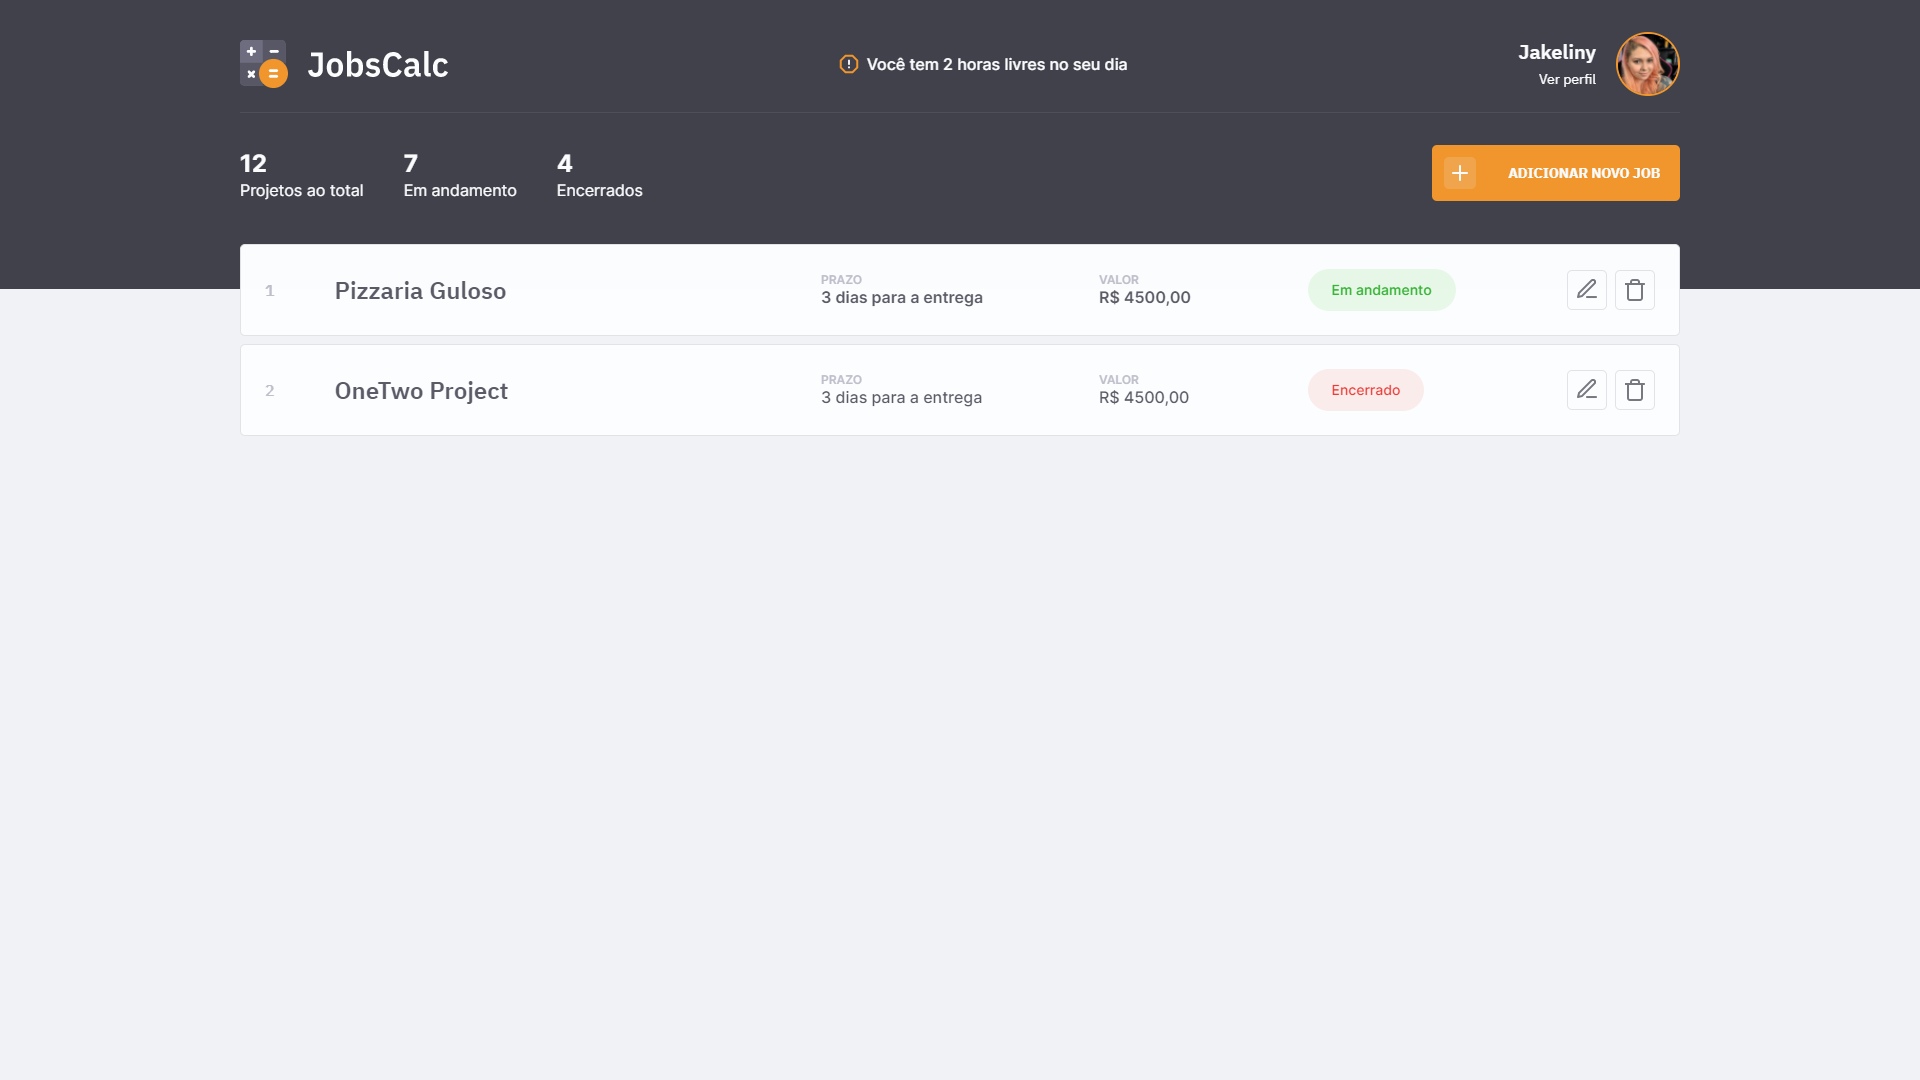
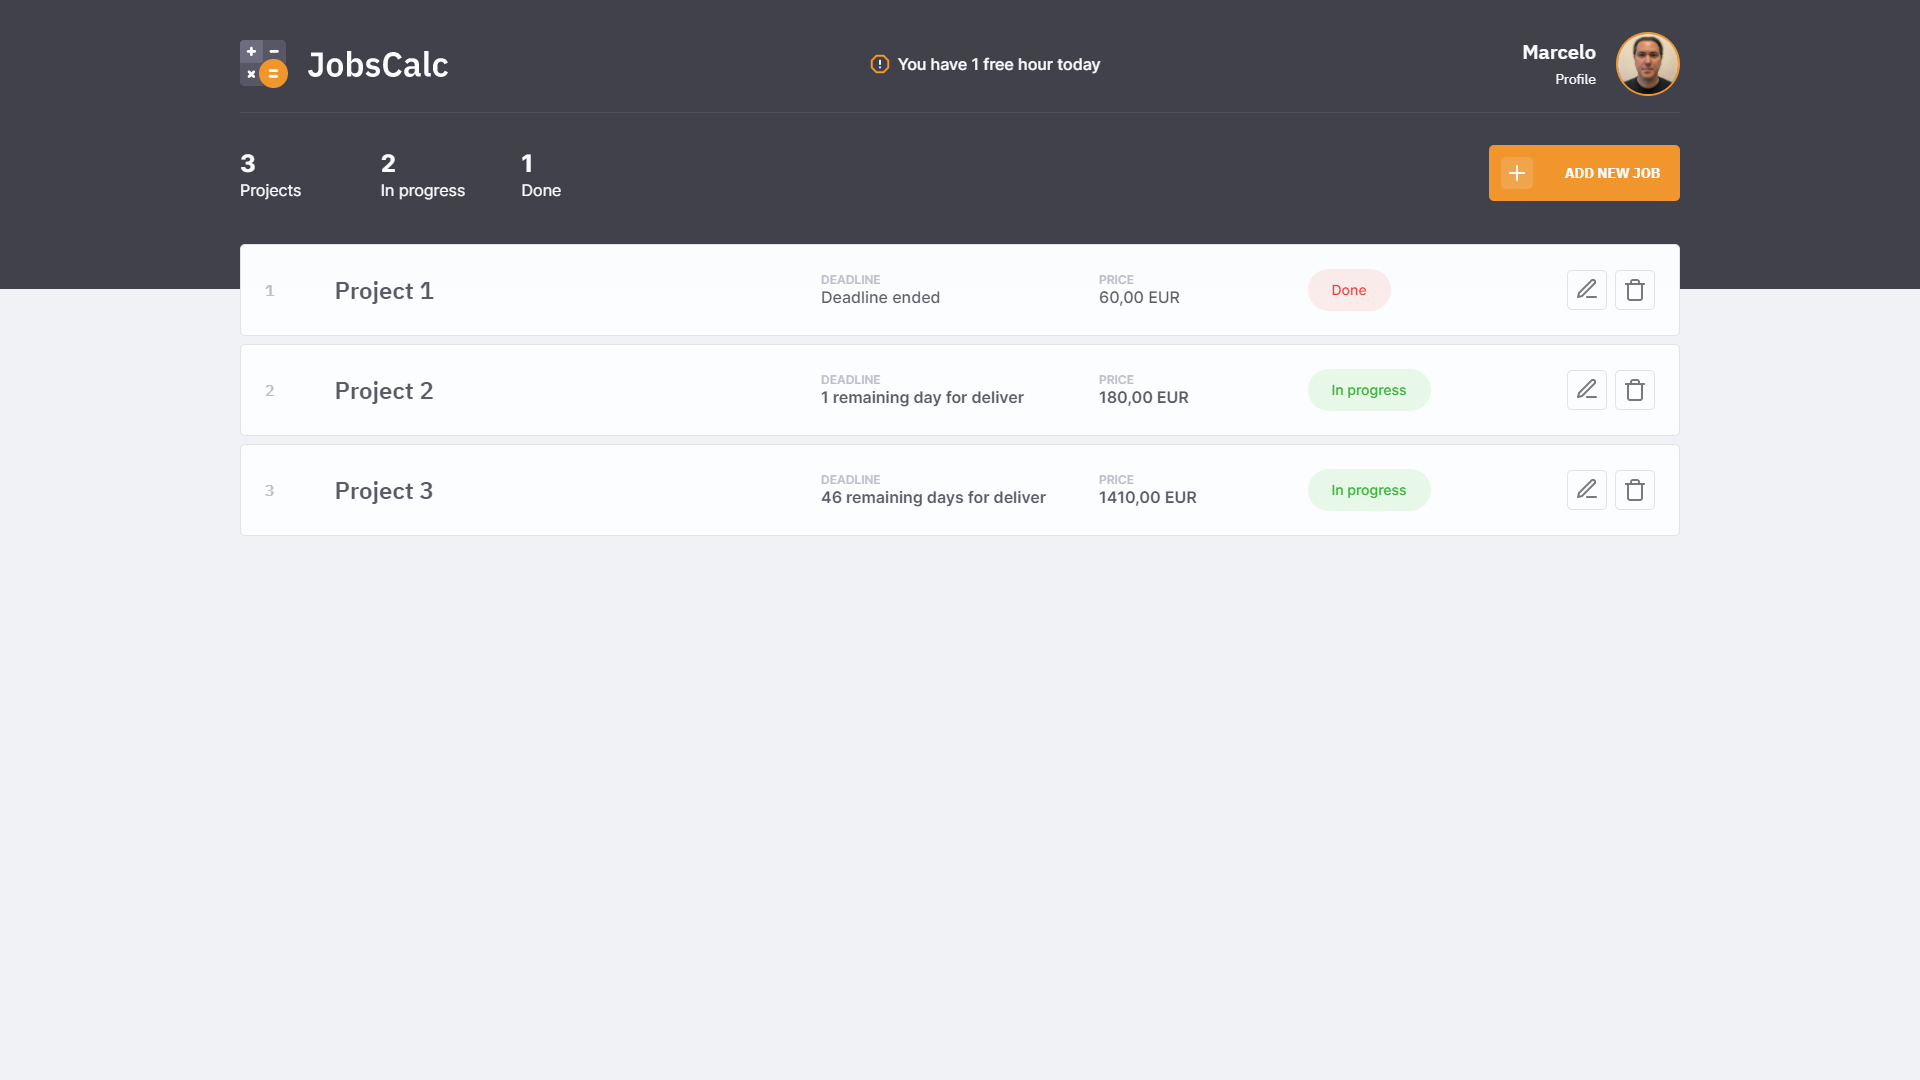
rocketseat

diff --git a/maratona_discover_2021_02/public/styles/pages/index.css b/maratona_discover_2021_02/public/styles/pages/index.css
@@ -89,6 +89,14 @@
   margin-bottom: 2rem;
 }
 
+.info {
+  width: 70%;
+}
+
+.info div {
+  width: 10%;
+}
+
 .info > div {
   font-size: 1rem;
   font-weight: 400;
@@ -228,12 +236,28 @@ main {
 }
 
 @media(max-width:1390px) {
+  .info {
+    width: 65%;
+  }
+
+  .info div {
+    width: 30%;
+  }
+
   .card {
     grid-template-columns: 5% 30% 20% 15% 17.25% 12.25%;
   }
 }
 
 @media(max-width:970px) {
+  .info {
+    width: 65%;
+  }
+
+  .info div {
+    width: 30%;
+  }
+
   .card {
     grid-template-columns: 31% 23% 13% 20.25% 12.25%;
   }
@@ -244,6 +268,20 @@ main {
 }
 
 @media(max-width:770px) {
+  .info {
+    width: 60%;
+  }
+
+  .info div {
+    width: 30%;
+  }
+
+  .info div.total,
+  .info div.in-progress,
+  .info div.finished {
+    font-size: 8px;
+  }
+  
   .card {
     grid-template-columns: 1fr 1fr;
     grid-template-areas: 

diff --git a/maratona_discover_2021_02/src/models/Job.js b/maratona_discover_2021_02/src/models/Job.js
@@ -1,15 +1,22 @@
 let data = [
     {
         id: 1,
-        name: "Pizzaria Guloso",
+        name: "Project 1",
         "daily-hours": 2,
         "total-hours": 2,
         created_at: Date.now()
     },
     {
         id: 2,
-        name: "OneTwo Project",
+        name: "Project 2",
         "daily-hours": 3,
+        "total-hours": 6,
+        created_at: Date.now()
+    },
+    {
+        id: 3,
+        name: "Project 3",
+        "daily-hours": 1,
         "total-hours": 47,
         created_at: Date.now()
     }

diff --git a/maratona_discover_2021_02/public/styles/partials/forms.css b/maratona_discover_2021_02/public/styles/partials/forms.css
@@ -24,6 +24,10 @@ form .input-group {
   margin-top: 1.5rem;
 }
 
+form .input-group .input-wrapper {
+  width: 50%;
+}
+
 form .input-group .input-wrapper + .input-wrapper {
   margin-left: 1.5rem;
 }
@@ -58,6 +62,10 @@ input {
   color: #BFBFCC;
 }
 
-.input-wrapper {
-  width: 50%;
+@media(max-width:770px) {
+  
+  form fieldset + fieldset .input-group .input-wrapper label {
+  height: 50%;
+  }
+  
 }

diff --git a/maratona_discover_2021_02/public/styles/pages/profile.css b/maratona_discover_2021_02/public/styles/pages/profile.css
@@ -51,3 +51,20 @@ aside p {
 main {
   flex: 1;
 }
+
+@media(max-width:770px) {
+
+  aside.card {
+    width: 18rem;
+
+    margin-right: 1rem;
+  }
+
+  .card {
+    display: flex;
+    flex-direction: column;
+    justify-content: center;
+    align-items: center;
+  }
+  
+}

diff --git a/maratona_discover_2021_02/README.md b/maratona_discover_2021_02/README.md
@@ -1,7 +1,3 @@
-:link: _front-end version:_ ...
-
-:link: _fullstack version:_ ...
-
 # JobsCalc App
 
 An app to help freelancers to calculate how much they should charge for your services using **[HTML](https://whatwg.org/)**, **[CSS](https://www.w3.org/Style/CSS/)**, **[JavaScript](https://developer.mozilla.org/en-US/docs/Web/JavaScript)**, **[Node.js](https://nodejs.org/)**, **[Express](https://expressjs.com/)**, and **[SQLite](https://www.sqlite.org/)**.  
@@ -66,34 +62,6 @@ npm init -y
 npm i express
 ```
 
-### tests
-
-```
-node src/server.js
-```
-
-```
-http://localhost:3000/
-```
-
-### install
-
-```
-npm i nodemon -D
-```
-
-### run
-
-```
-npm i
-```
-
-```
-npm run dev
-```
-
-### install
-
 ```
 npm i nodemon -D
 ```
@@ -108,6 +76,26 @@ npm i sqlite3
 
 ```
 npm i sqlite
+```
+
+### tests
+
+```
+node src/server.js
+```
+
+```
+http://localhost:3000/
+```
+
+### run
+
+```
+npm i
+```
+
+```
+npm run dev
 ```
 
 ## :hammer: **_tools_**
